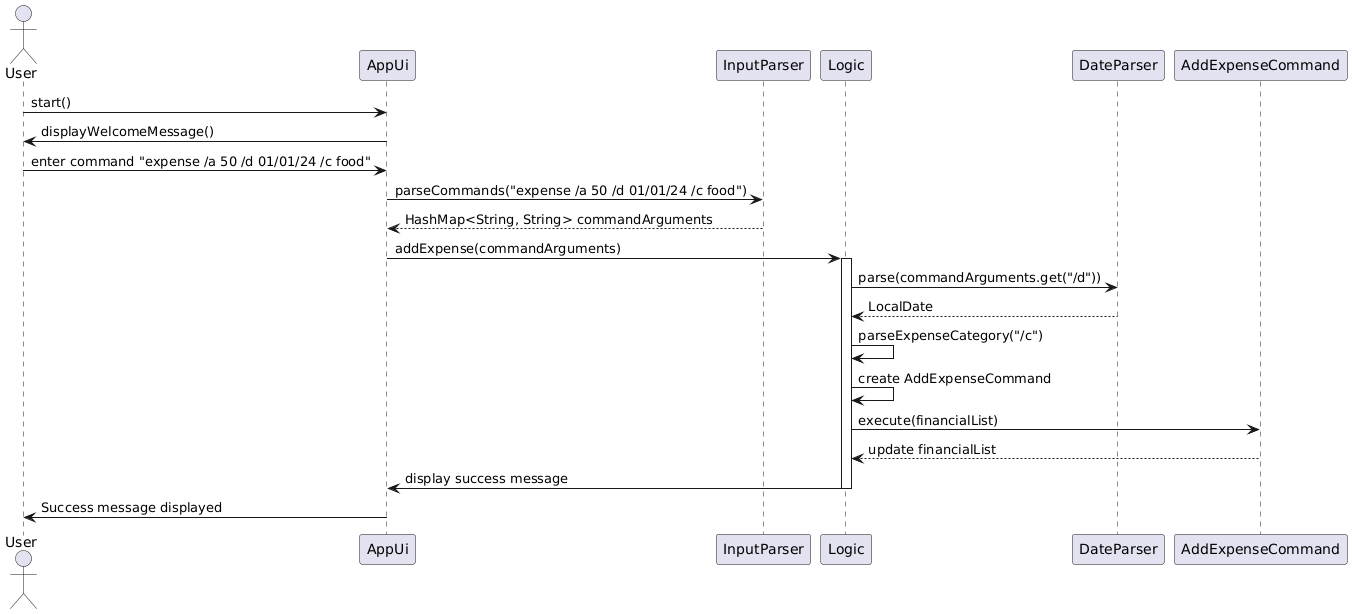
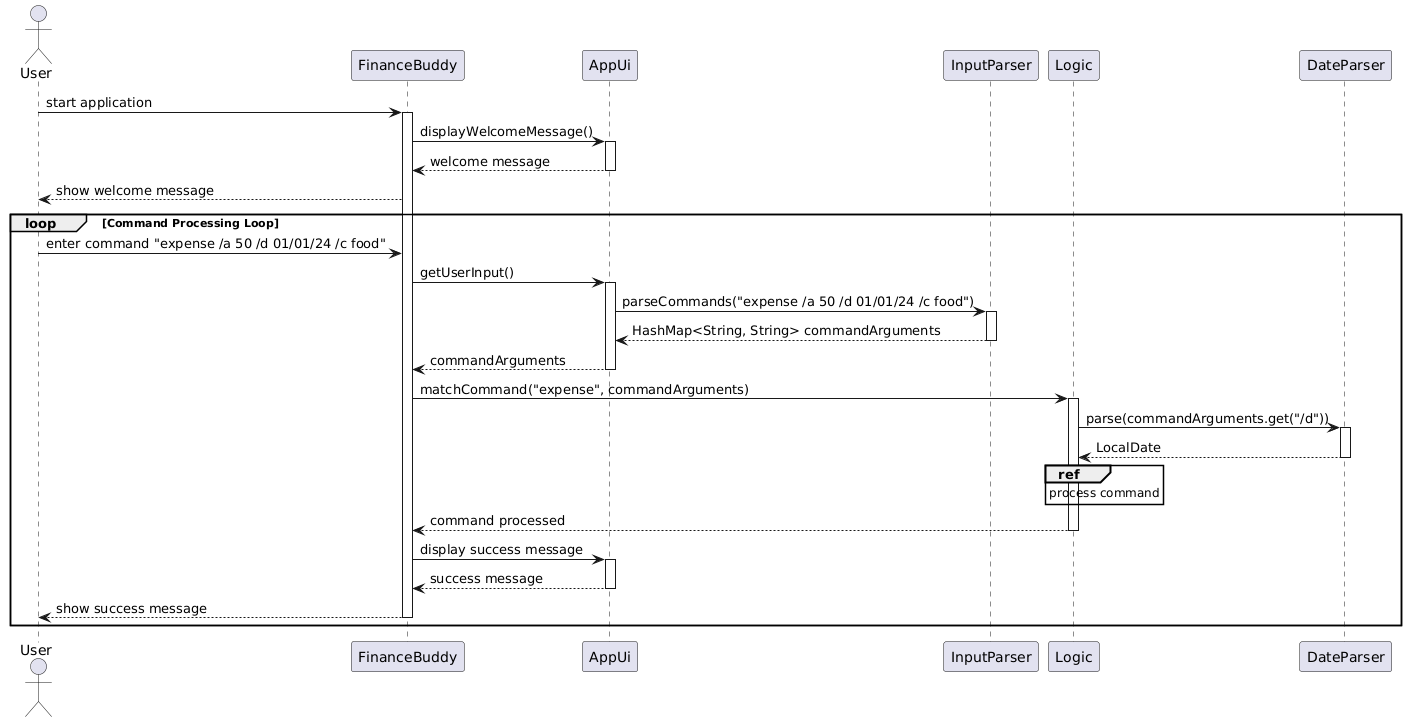
Update diagrams

diff --git a/docs/DeveloperGuide.md b/docs/DeveloperGuide.md
@@ -31,9 +31,8 @@ The Parser component, comprising `DateParser` and `InputParser`, handles input p
 
 <ins>Implementation</ins>
 
-- **Class Diagram**: Displays the relationship between `AppUi`, `DateParser`, and `InputParser`. `AppUi` serves as the main interface for user interaction, utilizing `DateParser` and `InputParser` to interpret and process input effectively.
-![Ui Parser Class](UML/UiParserClass.png)
 - **Sequence Diagram**: Illustrates the flow of processing user input, from capturing input in `AppUi`, parsing it with `InputParser`, and validating date formats via `DateParser`.
+
 ![Ui Parser Sequence](UML/UiParserSequence.png)
 
 #### Ui Component
@@ -46,12 +45,6 @@ The `AppUi` class in the Ui component facilitates user interactions, including d
 
 - **Attributes**:
   - `scanner`: `Scanner` — Reads user input from the console
-
-<ins>Implementation Details</ins>
-
-*Class Diagram*: Illustrates `AppUi` with its methods for displaying messages and capturing user input.
-
-![AppUI Class](UML/AppUIClass.png)
 
 <ins>Methods</ins>
 
@@ -85,12 +78,6 @@ The Parser component includes `InputParser` and `DateParser`. `InputParser` proc
 - **Attributes**:
   - `formatter`: `DateTimeFormatter` — Defines a date format for parsing.
 
-<ins>Implementation Details</ins>
-
-*Class Diagram*: Shows `InputParser` parsing command input and `DateParser` handling date validation.
-
-![Parser Class](UML/ParserClass.png)
-
 <ins>Methods</ins>
 
 - **InputParser.parseCommands(String input)**: Breaks down commands and arguments.
@@ -123,9 +110,9 @@ It interacts with `FinancialList`, `AppUi` and `Storage`, and leverages command 
 
 <ins>Implementation Details</ins>
 
-*Class Diagram*: Shows Logic as the main controller interacting with `FinancialList`, `AppUi`, and various command classes for operations (e.g., `AddIncomeCommand`, `DeleteCommand`).
+*Sequence Diagram*: Shows Logic as the main controller interacting with `DateParser`, `AppUi`, and various command classes for operations (e.g., `SeeAllEntriesCommand`, `showUnknownCommandMessage`).
 
-![Logic Class](UML/LogicClass.png)
+![Logic Sequence](UML/LogicSequence.png)
 
 <ins>Class Structure</ins>
 
